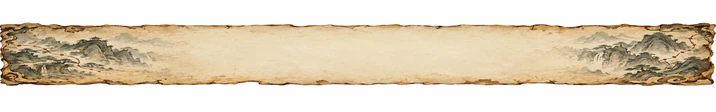
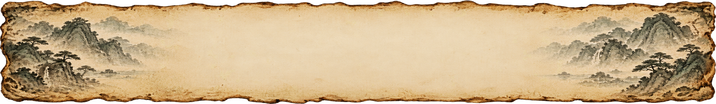
style(ui): 장식 버튼 배경과 사냥터 행 정리

diff --git a/src/style.css b/src/style.css
@@ -1706,7 +1706,19 @@ dialog.sheet::backdrop {
   display: flex;
   flex-wrap: wrap;
   gap: 0.25rem 0.875rem;
+  margin: 0;
+  padding: 0;
+  border: 0;
+  background: none;
+  box-shadow: none;
   font-weight: bold;
+}
+
+.reward-list > li {
+  padding: 0;
+  border: 0;
+  background: none;
+  box-shadow: none;
 }
 
 /* 사냥터 팝업 — 종이 팝업 톤. 요약 두 칸, 대스테이지 행, 소스테이지 5칸 격자. */
@@ -1764,6 +1776,14 @@ dialog.sheet::backdrop {
   padding: 0 1rem;
 }
 
+.btn.stage-picker-return,
+.tower-entry > .btn {
+  border-color: transparent;
+  border-image: none;
+  background: transparent;
+  box-shadow: none;
+}
+
 .stage-picker-help {
   color: var(--paper-muted);
   font-size: 0.75rem;
@@ -1780,8 +1800,10 @@ dialog.sheet::backdrop {
 .stage-major-row {
   --text: var(--text-on-wall);
   --muted: var(--muted-on-wall);
-  padding: 0.5rem 1.5rem;
-  border-image: url('/ui/panel/panel-stage-map.webp') 48 fill / 24px stretch;
+  padding: 0.5rem 4rem;
+  background: transparent;
+  box-shadow: none;
+  border-image: url('/ui/panel/panel-stage-map.webp') 40 fill / 20px stretch;
 }
 
 .sheet .stage-major-row-open {
@@ -1823,7 +1845,9 @@ dialog.sheet::backdrop {
   min-height: 2.75rem;
   border: 1px solid var(--paper-line);
   border-radius: 0.5rem;
-  background: #fbf5e6;
+  border-image: none;
+  background: transparent;
+  box-shadow: none;
   color: var(--paper-text);
   font-weight: bold;
 }
@@ -1842,7 +1866,7 @@ dialog.sheet::backdrop {
 .stage-sub-chip.is-current:disabled {
   border: 2px solid var(--up);
   border-style: solid;
-  background: #dcebd3;
+  background: transparent;
   color: #24481f;
 }
 
@@ -1881,11 +1905,11 @@ dialog.sheet::backdrop {
   gap: 0.5rem;
   flex-wrap: wrap;
   min-height: 3.25rem;
-  padding: 0.375rem 1.125rem;
+  padding: 0.5rem 2.5rem;
   border-radius: 0.75rem;
-  border: 1px solid #9a7430;
-  background: linear-gradient(135deg, #31271a, #17130e);
-  box-shadow: inset 0 1px rgba(255, 225, 139, 0.12);
+  border: 1px solid transparent;
+  background: transparent;
+  box-shadow: none;
   text-align: left;
   border-image: url('/ui/scroll/scroll-silk-picker.webp') 0 80 fill / 0 16px stretch;
 }
@@ -1948,10 +1972,10 @@ dialog.sheet::backdrop {
 .gong-card {
   position: relative;
   overflow: hidden;
-  padding-top: 1.75rem;
-  padding-right: 1.75rem;
-  padding-bottom: 1.75rem;
-  padding-left: 1.75rem;
+  padding-top: 2rem;
+  padding-right: 2.5rem;
+  padding-bottom: 2rem;
+  padding-left: 2.5rem;
   --muted: var(--paper-muted);
   --warn: #a4571c;
   border-color: #7c6036;
@@ -2324,6 +2348,18 @@ dialog.sheet::backdrop {
   padding: 0.625rem 0.75rem;
   border-color: #bda57a;
   background: linear-gradient(135deg, rgba(255, 250, 236, 0.86), rgba(239, 225, 193, 0.82));
+}
+
+.candidate-card .item-line > .btn,
+.enhance-block .btn,
+.sheet[aria-label='설정'] .setting-row:not(.save-backup) > .btn,
+.sheet[aria-label='설정'] .save-backup > button:first-of-type {
+  min-height: 2.75rem;
+  padding: 0.25rem 0.5rem;
+  border-color: transparent;
+  border-image: none;
+  background: transparent;
+  box-shadow: none;
 }
 
 .gear-current-section {
